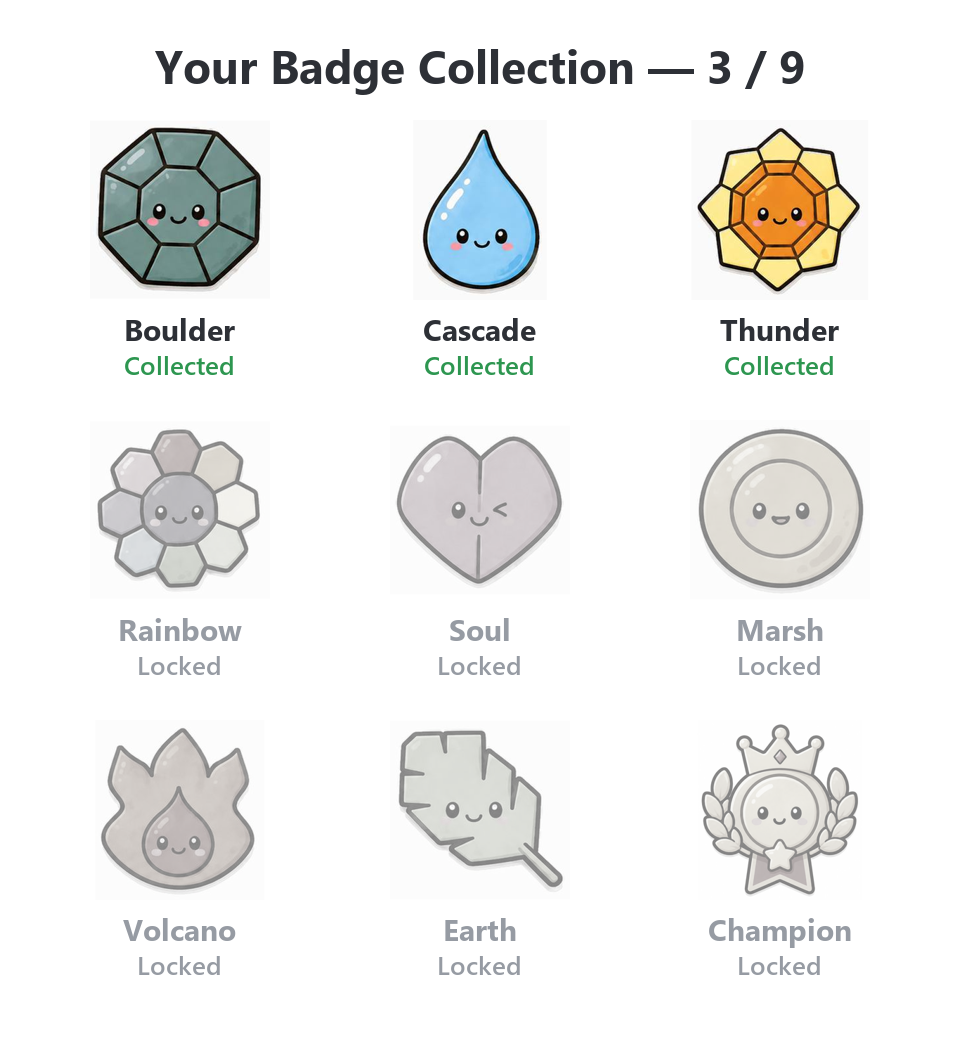
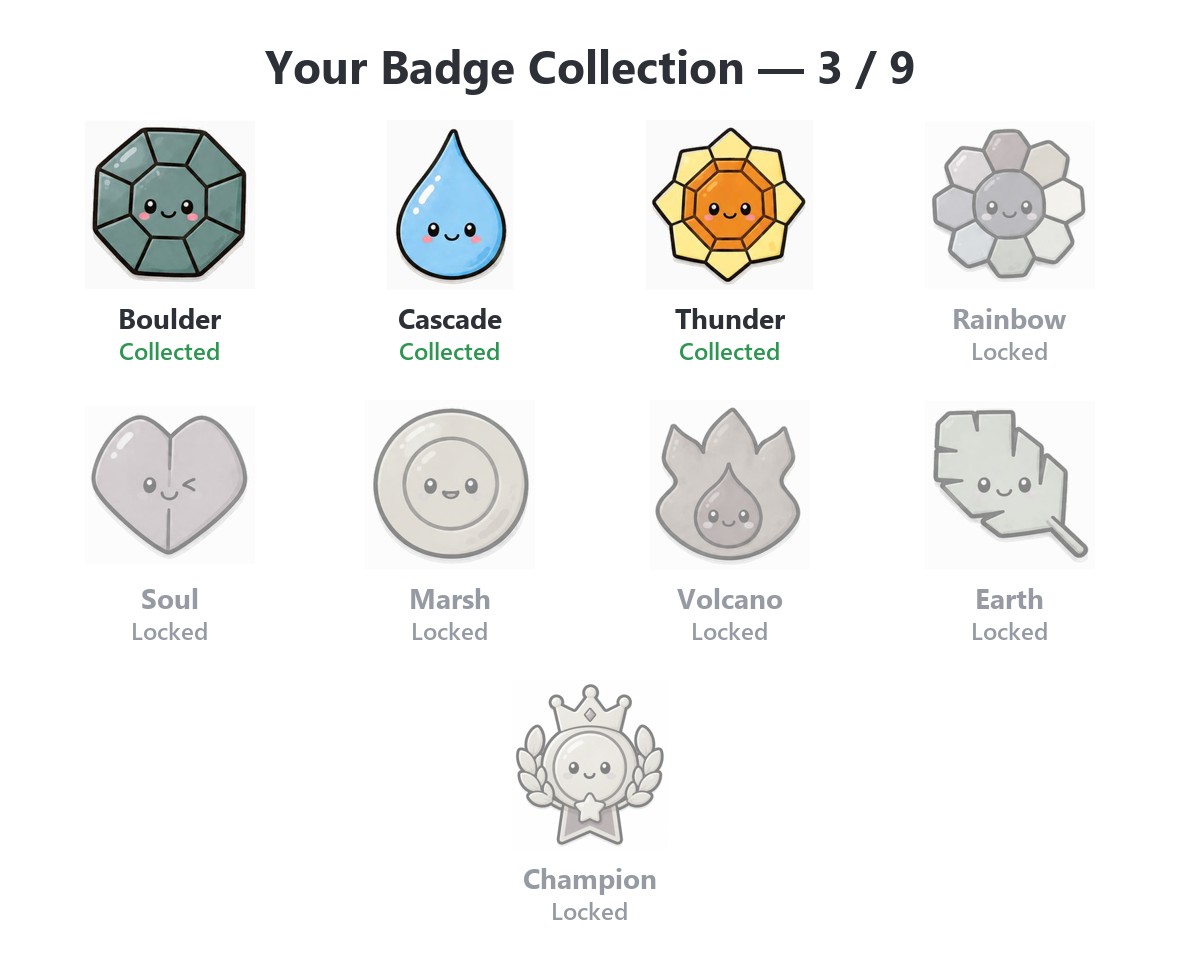
Loyalty: collection card layout — 4 / 4 / Champion centered
Regenerated the 10 collection cards as two rows of four (Boulder–Rainbow,
Soul–Earth) with Champion centered alone on the third row. Bumped
BADGE_ASSET_VERSION to 5 so the reused filenames refetch past Telegram's cache.

diff --git a/api/_inventory.js b/api/_inventory.js
@@ -876,7 +876,7 @@ export const BADGE_IMAGE_BASE = "https://raw.githubusercontent.com/fallacycardsh
 // This version tag is appended to every badge URL; bump it whenever the art is
 // regenerated so clients fetch the new file. (raw GitHub ignores the query and
 // serves the file; the changed URL is what busts the cache.)
-export const BADGE_ASSET_VERSION = "4";
+export const BADGE_ASSET_VERSION = "5";
 const BADGE_V = "?v=" + BADGE_ASSET_VERSION;
 export function badgeSlug(n) {
   const k = Number(n);
